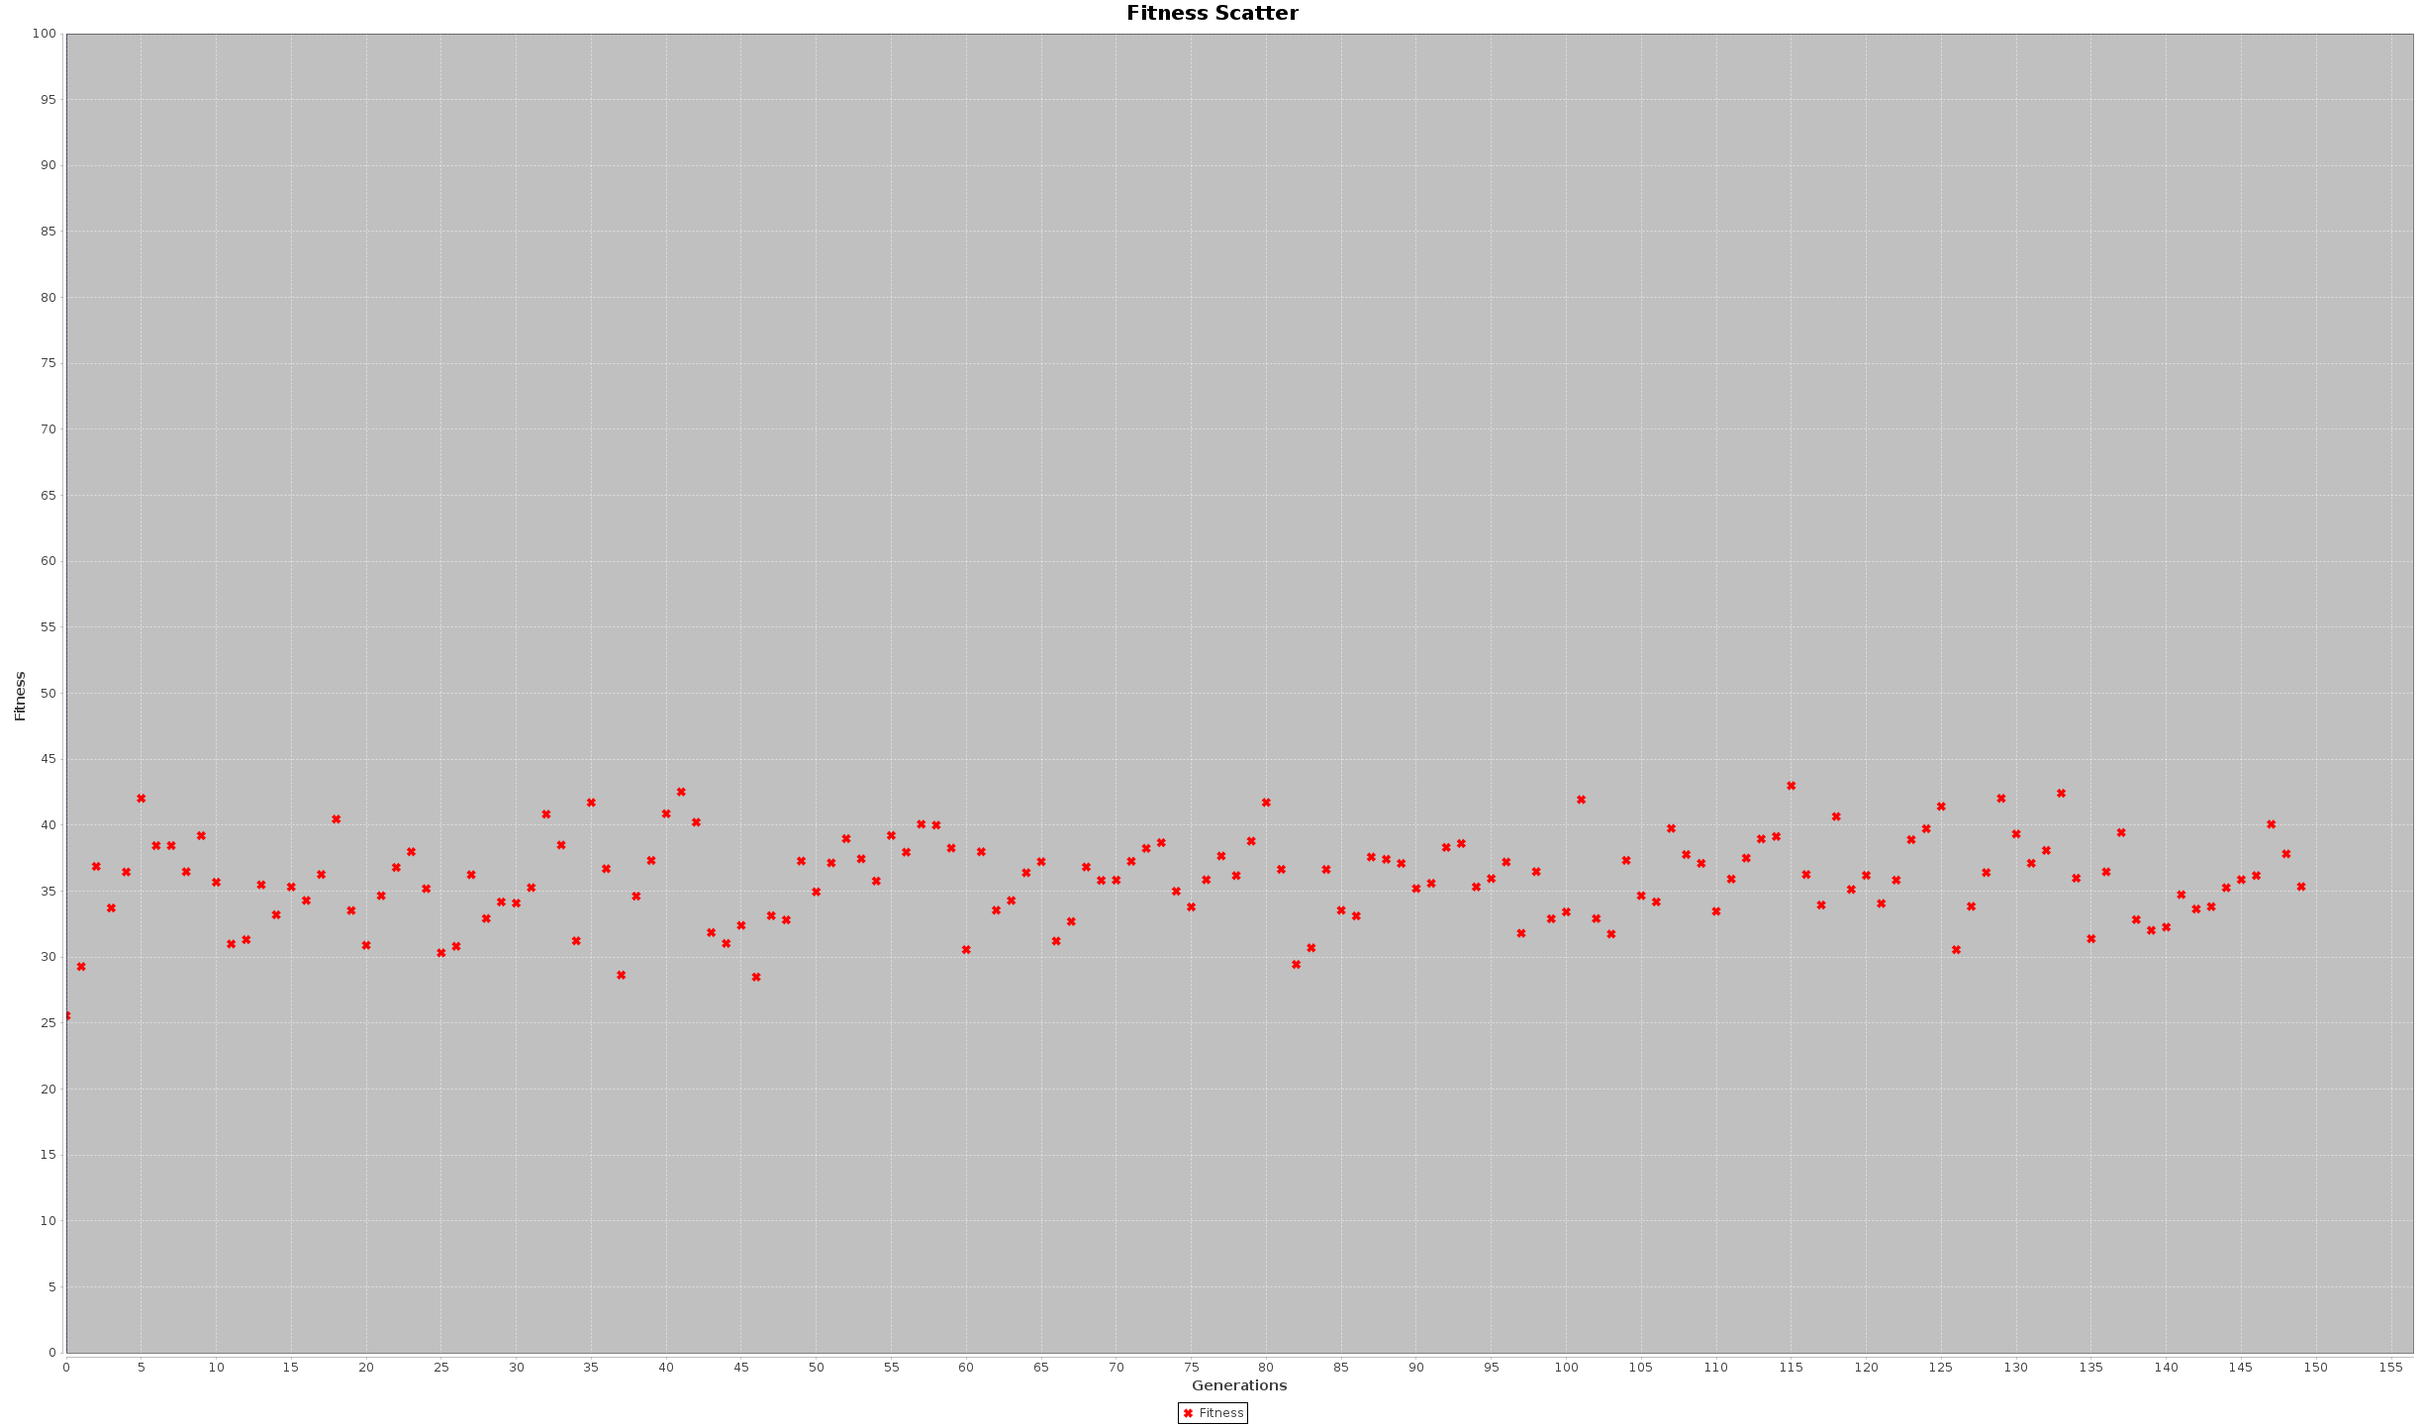
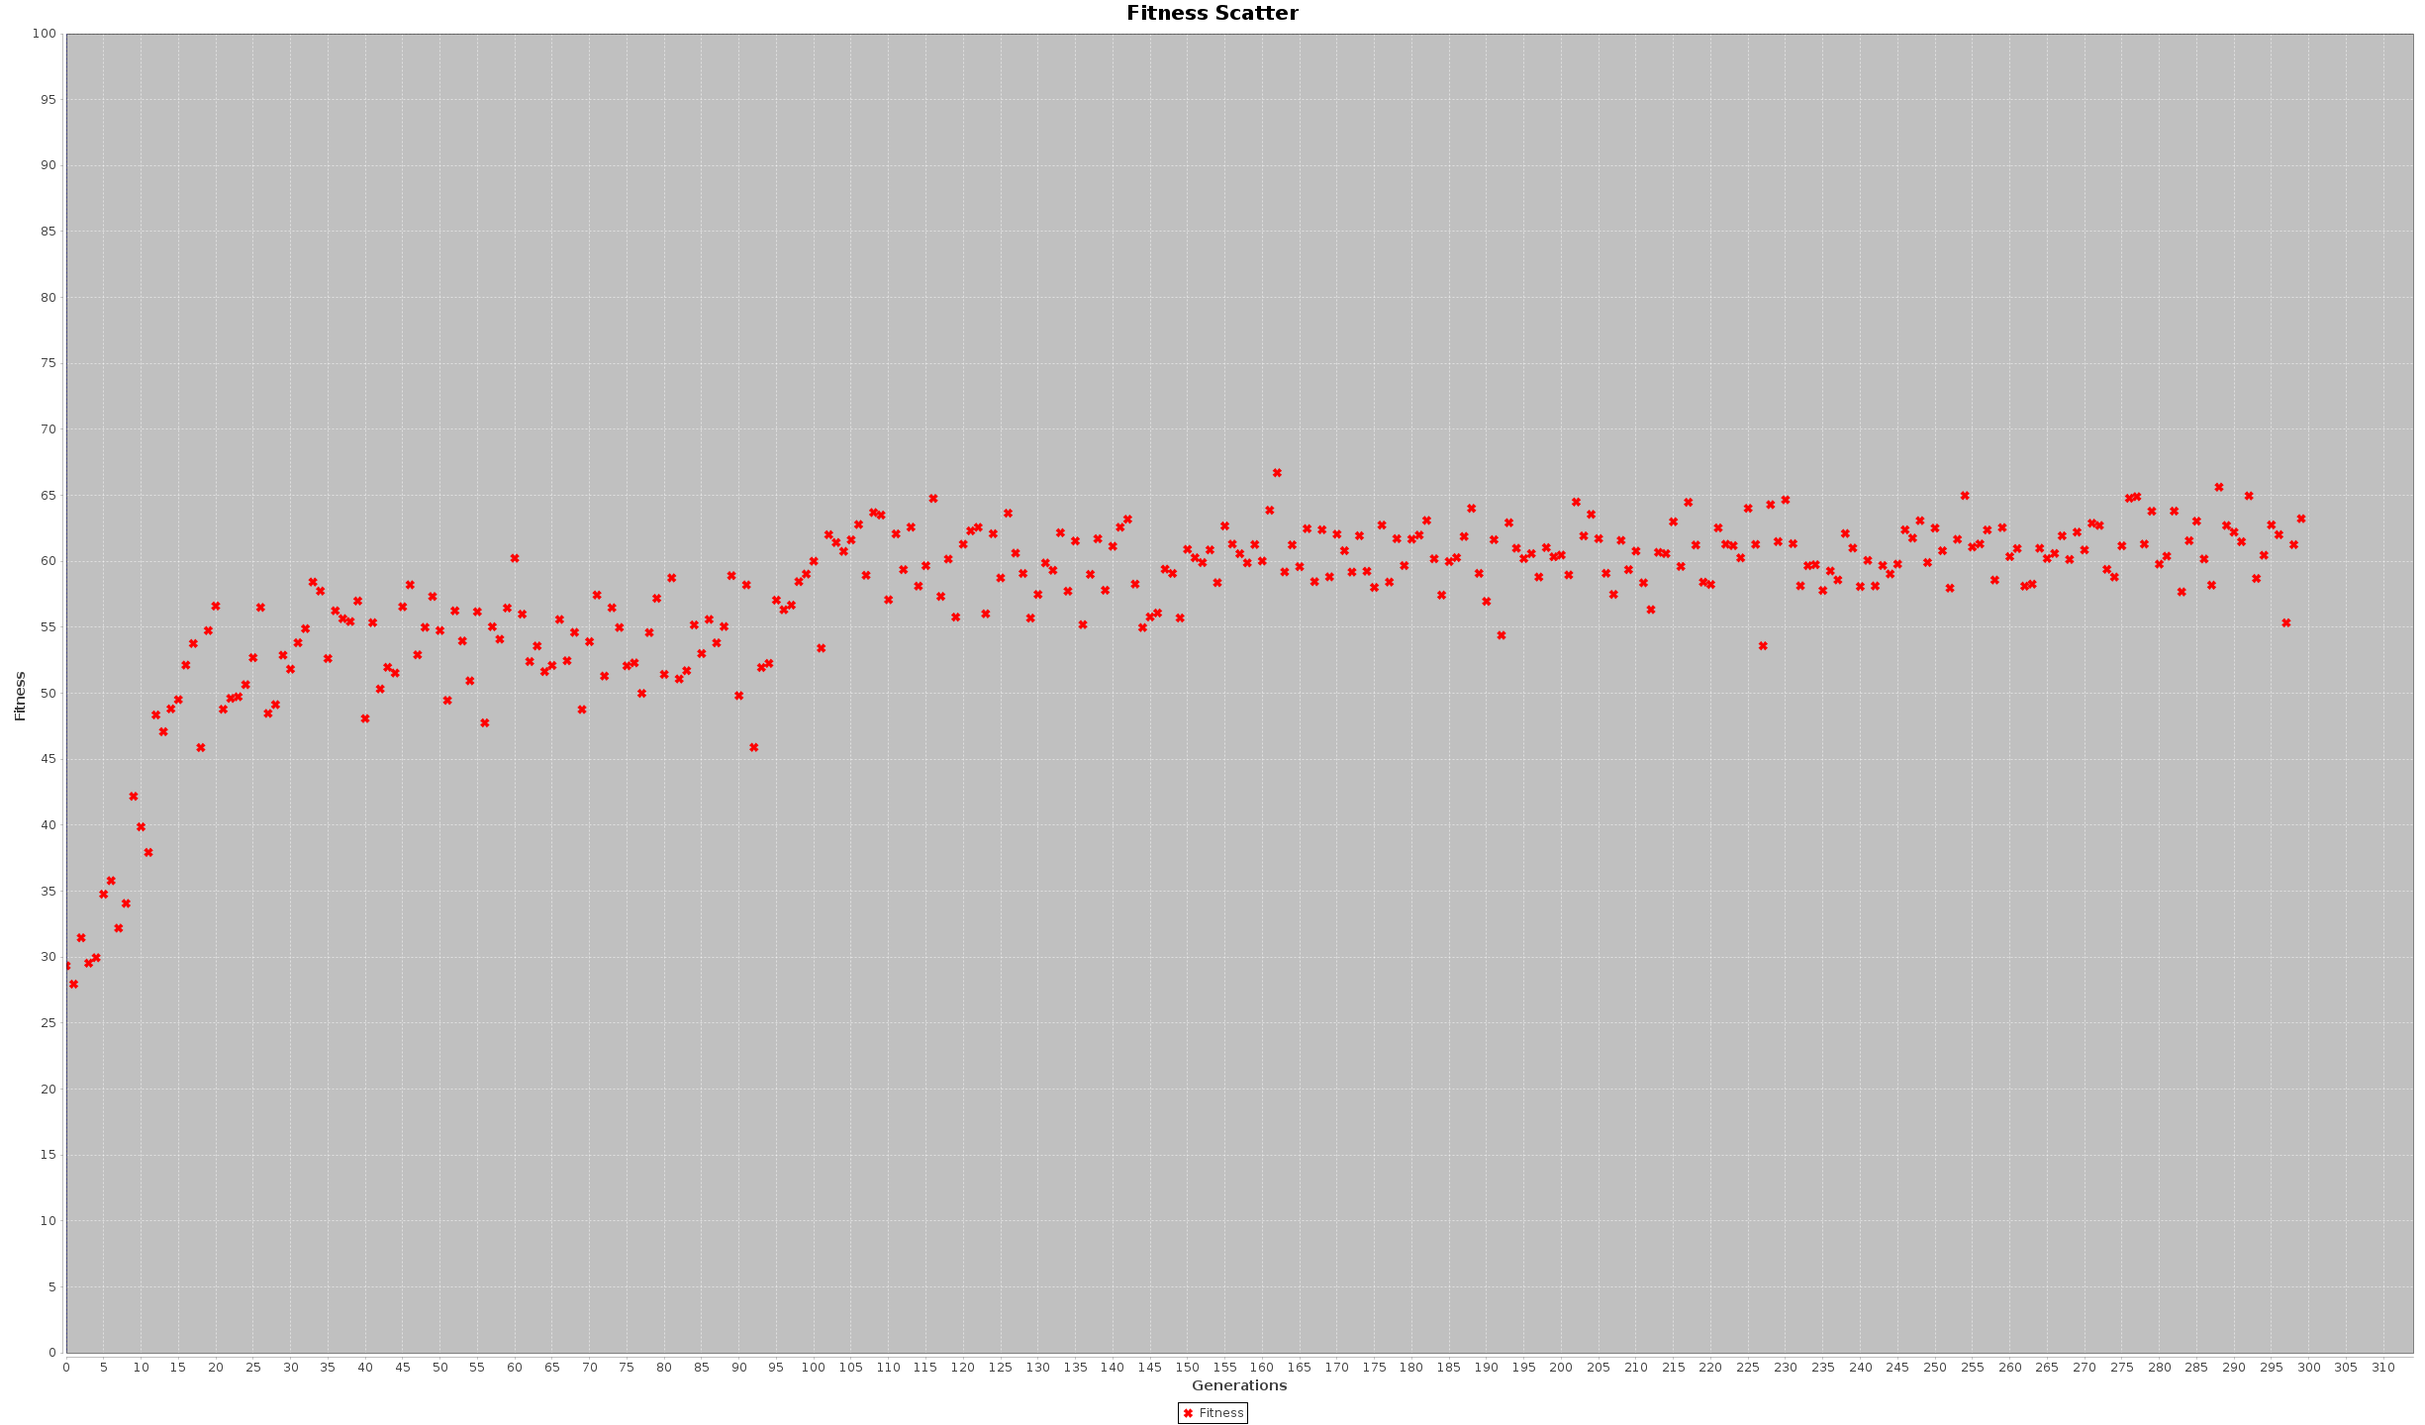
currently genetic algorithm increase 55% of the time

diff --git a/src/MyCreature.java b/src/MyCreature.java
@@ -100,7 +100,7 @@ public class MyCreature extends Creature {
             } 
             // if all else fails, then we can walk randomly.
             else {
-                actions[location] = chromosome.getActionSens(chromosome.RND_WT);
+                actions[Chromosome.RND_ACT] = chromosome.getActionSens(chromosome.RND_WT);
             }
         }
         
@@ -135,8 +135,7 @@ public class MyCreature extends Creature {
               tlWt   = 0.0f,
               trWt   = 0.0f,
               blWt   = 0.0f,
-              brWt   = 0.0f,
-              rndWt  = 0.0f;
+              brWt   = 0.0f;
         
         // foe
         if(fffValStatus == -1) {
@@ -158,81 +157,64 @@ public class MyCreature extends Creature {
         else if(fffValStatus == 0) {
             
             fwdWt  = chromosome.getActionSens(Chromosome.FWD_WT);  // can move towards.
-            bckWt  = chromosome.getActionSens(Chromosome.BCK_WT);  // can move away.
+            //bckWt  = chromosome.getActionSens(Chromosome.BCK_WT);  // can move away.
             lftWt  = chromosome.getActionSens(Chromosome.LFT_WT);  // can move left.
-            rghtWt = chromosome.getActionSens(Chromosome.RGT_WT);  // can move right.
+            //rghtWt = chromosome.getActionSens(Chromosome.RGT_WT);  // can move right.
             tlWt   = chromosome.getActionSens(Chromosome.TL_WT);   // can move top left.
-            trWt   = chromosome.getActionSens(Chromosome.TR_WT);   // can move top right.
+            //trWt   = chromosome.getActionSens(Chromosome.TR_WT);   // can move top right.
             blWt   = chromosome.getActionSens(Chromosome.BL_WT);   // can move away left.
-            brWt   = chromosome.getActionSens(Chromosome.BR_WT);   // can move away right.
-            waitWt = chromosome.getActionSens(Chromosome.WAIT_WT); // can wait.
-            rndWt  = chromosome.getActionSens(Chromosome.RND_WT);  // can move randomly.
+            //brWt   = chromosome.getActionSens(Chromosome.BR_WT);   // can move away right.
             
             actionWeights.add(fwdWt);
-            actionWeights.add(bckWt);
+           // actionWeights.add(bckWt);
             actionWeights.add(lftWt);
-            actionWeights.add(rghtWt);
-            actionWeights.add(tlWt);
-            actionWeights.add(trWt);
+            //actionWeights.add(rghtWt);
+            //actionWeights.add(tlWt);
+            //actionWeights.add(trWt);
             actionWeights.add(blWt);
-            actionWeights.add(brWt);
-            actionWeights.add(waitWt);
-            actionWeights.add(rndWt);
+            //actionWeights.add(brWt);
             
             multiActionMapping.put(fwdWt,  Chromosome.FWD_WT);
-            multiActionMapping.put(bckWt,  Chromosome.WAIT_WT);
+            //multiActionMapping.put(bckWt,  Chromosome.WAIT_WT);
             multiActionMapping.put(lftWt,  Chromosome.LFT_WT);
-            multiActionMapping.put(rghtWt, Chromosome.RGT_WT);
-            multiActionMapping.put(tlWt,   Chromosome.TL_WT);
-            multiActionMapping.put(trWt,   Chromosome.TR_WT);
+            //multiActionMapping.put(rghtWt, Chromosome.RGT_WT);
+            //multiActionMapping.put(tlWt,   Chromosome.TL_WT);
+            //multiActionMapping.put(trWt,   Chromosome.TR_WT);
             multiActionMapping.put(blWt,   Chromosome.BL_WT);
-            multiActionMapping.put(brWt,   Chromosome.BR_WT);
-            multiActionMapping.put(waitWt, Chromosome.WAIT_WT);
-            multiActionMapping.put(rndWt,  Chromosome.RND_WT);
+            //multiActionMapping.put(brWt,   Chromosome.BR_WT);
         }
         
         else if(fffValStatus == 1) {
                        
             eatWt  = chromosome.getActionSens(Chromosome.EAT_WT);  // can eat.
             fwdWt  = chromosome.getActionSens(Chromosome.FWD_WT);  // can move towards.
-            bckWt  = chromosome.getActionSens(Chromosome.BCK_WT);  // can move away.
+            //bckWt  = chromosome.getActionSens(Chromosome.BCK_WT);  // can move away.
             lftWt  = chromosome.getActionSens(Chromosome.LFT_WT);  // can move left.
-            rghtWt = chromosome.getActionSens(Chromosome.RGT_WT);  // can move right.
-            tlWt   = chromosome.getActionSens(Chromosome.TL_WT);   // can move top left.
-            trWt   = chromosome.getActionSens(Chromosome.TR_WT);   // can move top right.
+            //rghtWt = chromosome.getActionSens(Chromosome.RGT_WT);  // can move right.
+            //tlWt   = chromosome.getActionSens(Chromosome.TL_WT);   // can move top left.
+            //trWt   = chromosome.getActionSens(Chromosome.TR_WT);   // can move top right.
             blWt   = chromosome.getActionSens(Chromosome.BL_WT);   // can move away left.
-            brWt   = chromosome.getActionSens(Chromosome.BR_WT);   // can move away right.
-            waitWt = chromosome.getActionSens(Chromosome.WAIT_WT); // can wait.
-            rndWt  = chromosome.getActionSens(Chromosome.RND_WT);  // can move randomly.
-            
-            actionWeights.add(eatWt);            
-            actionWeights.add(fwdWt);/*
+            //brWt   = chromosome.getActionSens(Chromosome.BR_WT);   // can move away right.
+                      
+            actionWeights.add(fwdWt);
             actionWeights.add(bckWt);
             actionWeights.add(lftWt);
-            actionWeights.add(rghtWt);
-            actionWeights.add(tlWt);
-            actionWeights.add(trWt);
+            //actionWeights.add(rghtWt);
+            //actionWeights.add(tlWt);
+            //actionWeights.add(trWt);
             actionWeights.add(blWt);
-            actionWeights.add(brWt);
-            actionWeights.add(waitWt);*/
-            //actionWeights.add(rndWt);
-            
-            multiActionMapping.put(eatWt,  Chromosome.EAT_WT);            
-            multiActionMapping.put(fwdWt,  Chromosome.FWD_WT);/*
-            multiActionMapping.put(bckWt,  Chromosome.WAIT_WT);
+            //actionWeights.add(brWt);
+                        
+            multiActionMapping.put(fwdWt,  Chromosome.FWD_WT);
+            //multiActionMapping.put(bckWt,  Chromosome.BCK_WT);
             multiActionMapping.put(lftWt,  Chromosome.LFT_WT);
-            multiActionMapping.put(rghtWt, Chromosome.RGT_WT);
-            multiActionMapping.put(tlWt,   Chromosome.TL_WT);
-            multiActionMapping.put(trWt,   Chromosome.TR_WT);
+            //multiActionMapping.put(rghtWt, Chromosome.RGT_WT);
+            //multiActionMapping.put(tlWt,   Chromosome.TL_WT);
+            //multiActionMapping.put(trWt,   Chromosome.TR_WT);
             multiActionMapping.put(blWt,   Chromosome.BL_WT);
-            multiActionMapping.put(brWt,   Chromosome.BR_WT);*/
-            multiActionMapping.put(waitWt, Chromosome.WAIT_WT);
-            //multiActionMapping.put(rndWt,  Chromosome.RND_WT);
+            //multiActionMapping.put(brWt,   Chromosome.BR_WT);
             
-            // food is ripe.
-            if(perceptLoc == 2) {
-                
-            }
+            actions[Chromosome.EAT_ACT] = eatWt;
         }
 
         Collections.sort(actionWeights);

diff --git a/src/MyWorld.java b/src/MyWorld.java
@@ -46,7 +46,7 @@ public class MyWorld extends World {
     /**
      * The number of generations the genetic algorithm will iterate through.
      */
-    private final int numGenerations = 150;
+    private final int numGenerations = 300;
     
     private double[] averageFitnessPerGen = new double[numGenerations];
     
@@ -55,41 +55,65 @@ public class MyWorld extends World {
     private int avgFitIdx = 0;
     private int avgEnergy = 0;   
     
+    private MyCreature currentFittestCreature;
+    double previousAvgFit = 0.0;
+    
     private double determineFitness(MyCreature creature) {
         double fitness = 0;
         
         avgEnergy += creature.getEnergy();
         fitness = creature.getEnergy() * ((double)((double)numTurns - (double)creature.timeOfDeath()) /(double) numTurns);
-        //fitness =  numTurns - creature.timeOfDeath();
         return fitness;
     }
     
     private MyCreature[] breed(Creature[] oldPopulationCt, int numCreatures) {
-        
+        List<MyCreature> aboveAvg = new ArrayList<>();
         MyCreature[] oldPopulation = (MyCreature[]) oldPopulationCt;
         MyCreature[] newGeneration = new MyCreature[numCreatures];
         
         double avgFitness = 0.0;
+        double maxFitness = 0.0;
         
         // obtain previous fitness
         for(int i = 0; i < numCreatures; i++) {
             
             MyCreature currCreature = oldPopulation[i];
-            double currfitness = determineFitness(currCreature);
-            currCreature.setFitness(currfitness);
+            double currFitness = determineFitness(currCreature);
+            currCreature.setFitness(currFitness);
             
-            avgFitness += currfitness;
+            if(maxFitness < currFitness) {
+                currentFittestCreature = currCreature;
+                maxFitness = currFitness;
+                System.out.println(maxFitness);
+            }
+            
+            if(currFitness > previousAvgFit - 12) {
+               
+                aboveAvg.add(currCreature);
+            }
+            
+            avgFitness += currFitness;
         }
-        
+
+                System.out.println("above avg " + aboveAvg.size());
         averageFitnessPerGen[avgFitIdx] = avgFitness/numCreatures;
         
         // display status.
         showStatus(oldPopulation, numCreatures);
-        
+
         int newGen = 0;
+        for(MyCreature c : aboveAvg) {
+            /*if(newGen > 51) {
+                break;
+            }*/
+            newGeneration[newGen++] = c;
+        }
+        
         while(newGen < numCreatures) {
            newGeneration[newGen++] = tournamentSelection(oldPopulation);
         }
+        
+        previousAvgFit = avgFitness/numCreatures;
         
         return newGeneration;
     }
@@ -103,9 +127,6 @@ public class MyWorld extends World {
         do {
            left  = rand.nextInt(oldPopulation.length);
            right = rand.nextInt(oldPopulation.length);
-           
-           //System.out.println("l " + left + "r " + right);
-           
         } while((right - left) < 2);
 
         List<MyCreature> oldPopSubset = new ArrayList<>();
@@ -145,8 +166,8 @@ public class MyWorld extends World {
                 fffSensitivityP2 = scndBest.getFFFSensGenes();
      
         Chromosome newGenes = new Chromosome();
-        
-        newGenes.setDirectionIntel(directionIntelP1);                        // always get best parent's direction awareness genes.
+   
+        newGenes.setDirectionIntel(directionIntelP1);               // always get best parent's direction awareness genes.
         newGenes.setDirectionToPcptMap(firstBest.getDirectionToPcptMap());   // always get best parent's direction to percept mapping.
         newGenes.setActionSensGenes(onePointCrossOver(actionSensitivityP1, 
                                                       actionSensitivityP2)); // cross over action sensitivity genes.
@@ -172,7 +193,28 @@ public class MyWorld extends World {
             i++;
         }
         
+        mutateWeights(newSubTraits);
+        
         return newSubTraits;
+    }
+    
+    private float[] mutateWeights(float[] subTraits) {
+        
+        Random rand = new Random();
+        
+        int mutate = rand.nextInt(1000);
+        
+        if(mutate < subTraits.length) {
+            subTraits[mutate] = rand.nextFloat();
+        }
+
+        mutate = rand.nextInt(1000);
+        
+        if(mutate < subTraits.length) {
+            subTraits[mutate] = rand.nextFloat();
+        }
+
+        return subTraits;
     }
     
     /**
@@ -318,6 +360,10 @@ public class MyWorld extends World {
             } catch(Exception e) {
                 System.err.println("Chart couldn't be saved properly.");
             }
+            System.out.println();
+            System.out.println("Best Solution:");
+            System.out.println("Best Fitness: " + currentFittestCreature.getFitness());
+            System.out.println(currentFittestCreature.getChromosome());
         }
         
         return new_population;

diff --git a/src/Chromosome.java b/src/Chromosome.java
@@ -83,7 +83,7 @@ public class Chromosome {
      */
     private float[] fffSensitivity;
     
-    private boolean debug = true;
+    private boolean debug = false;
     
     public Chromosome() {}
     
@@ -166,6 +166,23 @@ public class Chromosome {
     
     public void setDirectionIntel(int[] directionIntel) {
         this.directionIntel = directionIntel;
+    }
+    
+    public void redoDirectionToPcptMapping() {
+        int dir = 0;
+        // initialize direction mapping for efficiency. Maps directions back to percept values. (Naive Search).
+        while(dir < NUM_DIRECITONS) {
+            
+            // for all percept locations.
+            for(int pcpt = 0; pcpt < NUM_DIRECITONS; pcpt++) {
+                
+                // if direction is at the pcpt gene location.
+                if(dir == directionIntel[pcpt]) {
+                    directionMapping.put(dir++, pcpt);
+                    break;
+                }
+            }
+        }
     }
     
     public Map<Integer, Integer> getDirectionToPcptMap() {
@@ -331,5 +348,12 @@ public class Chromosome {
     
     public float getFFFVal(int idx) {
         return fffSensitivity[idx];
+    }
+    
+    @Override
+    public String toString() {
+        return "Chromosome{" + "directionIntel=" + Arrays.toString(directionIntel) +
+               ", actionSensitivity=" + Arrays.toString(actionSensitivity) + 
+               ", fffSensitivity=" + Arrays.toString(fffSensitivity) + '}';
     }
 }
